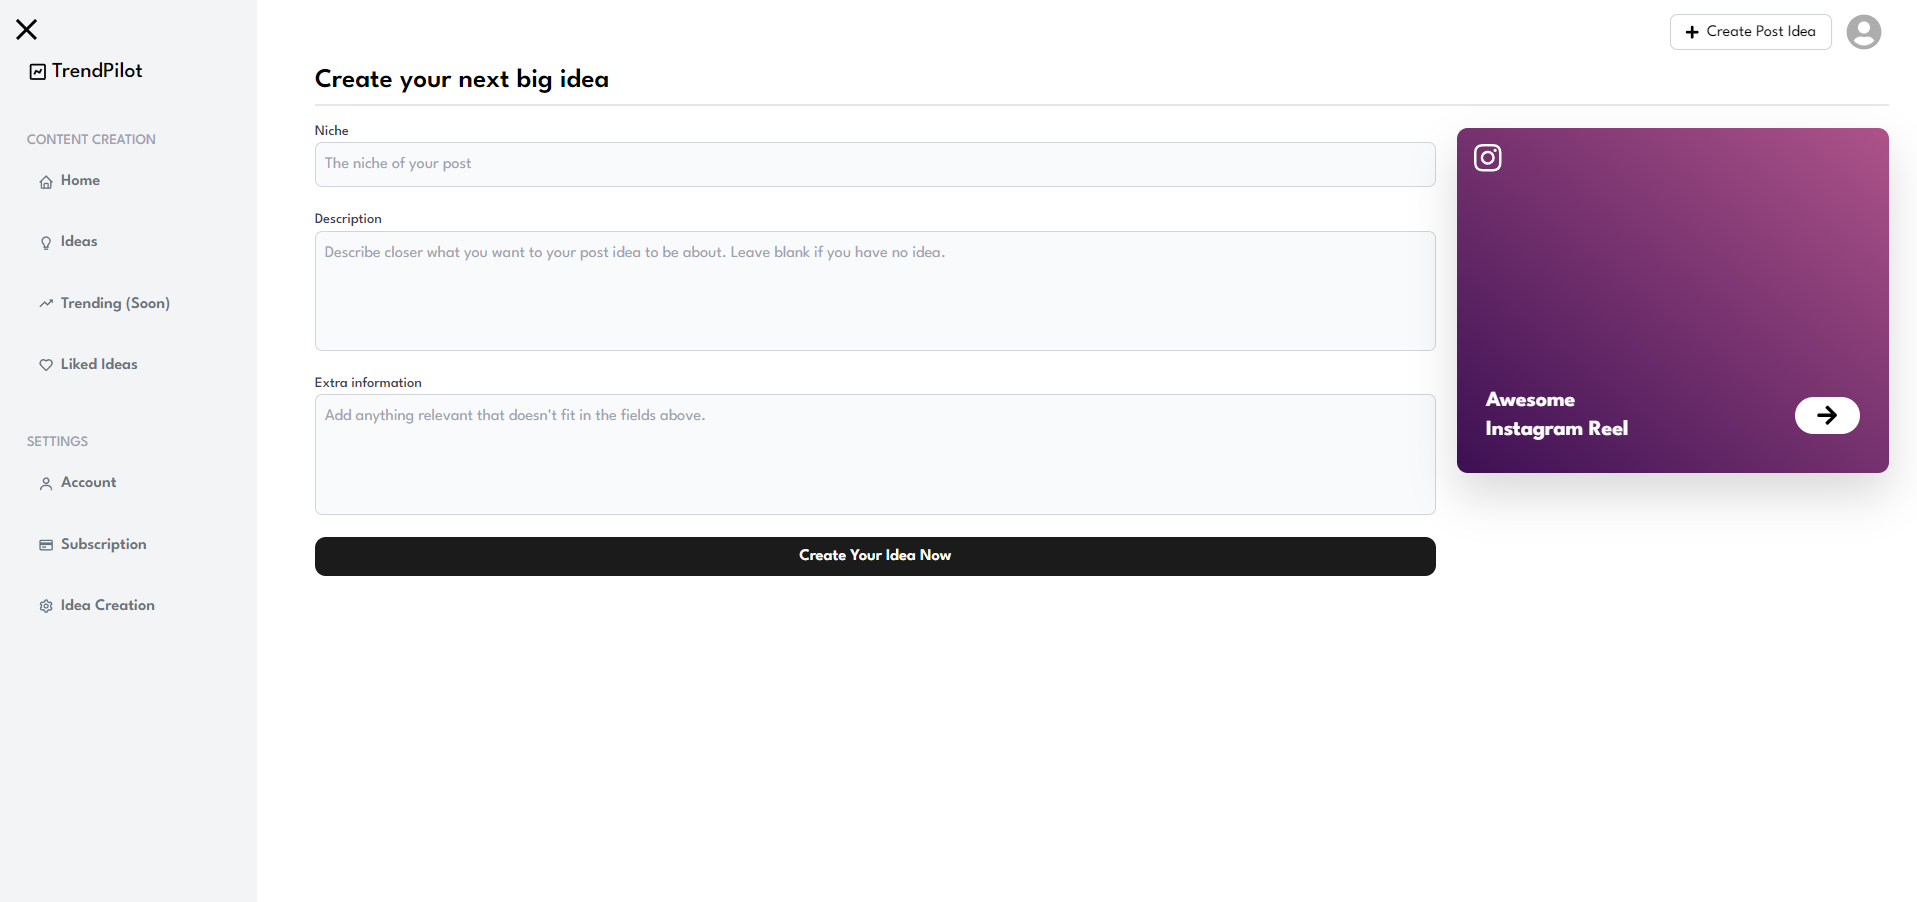
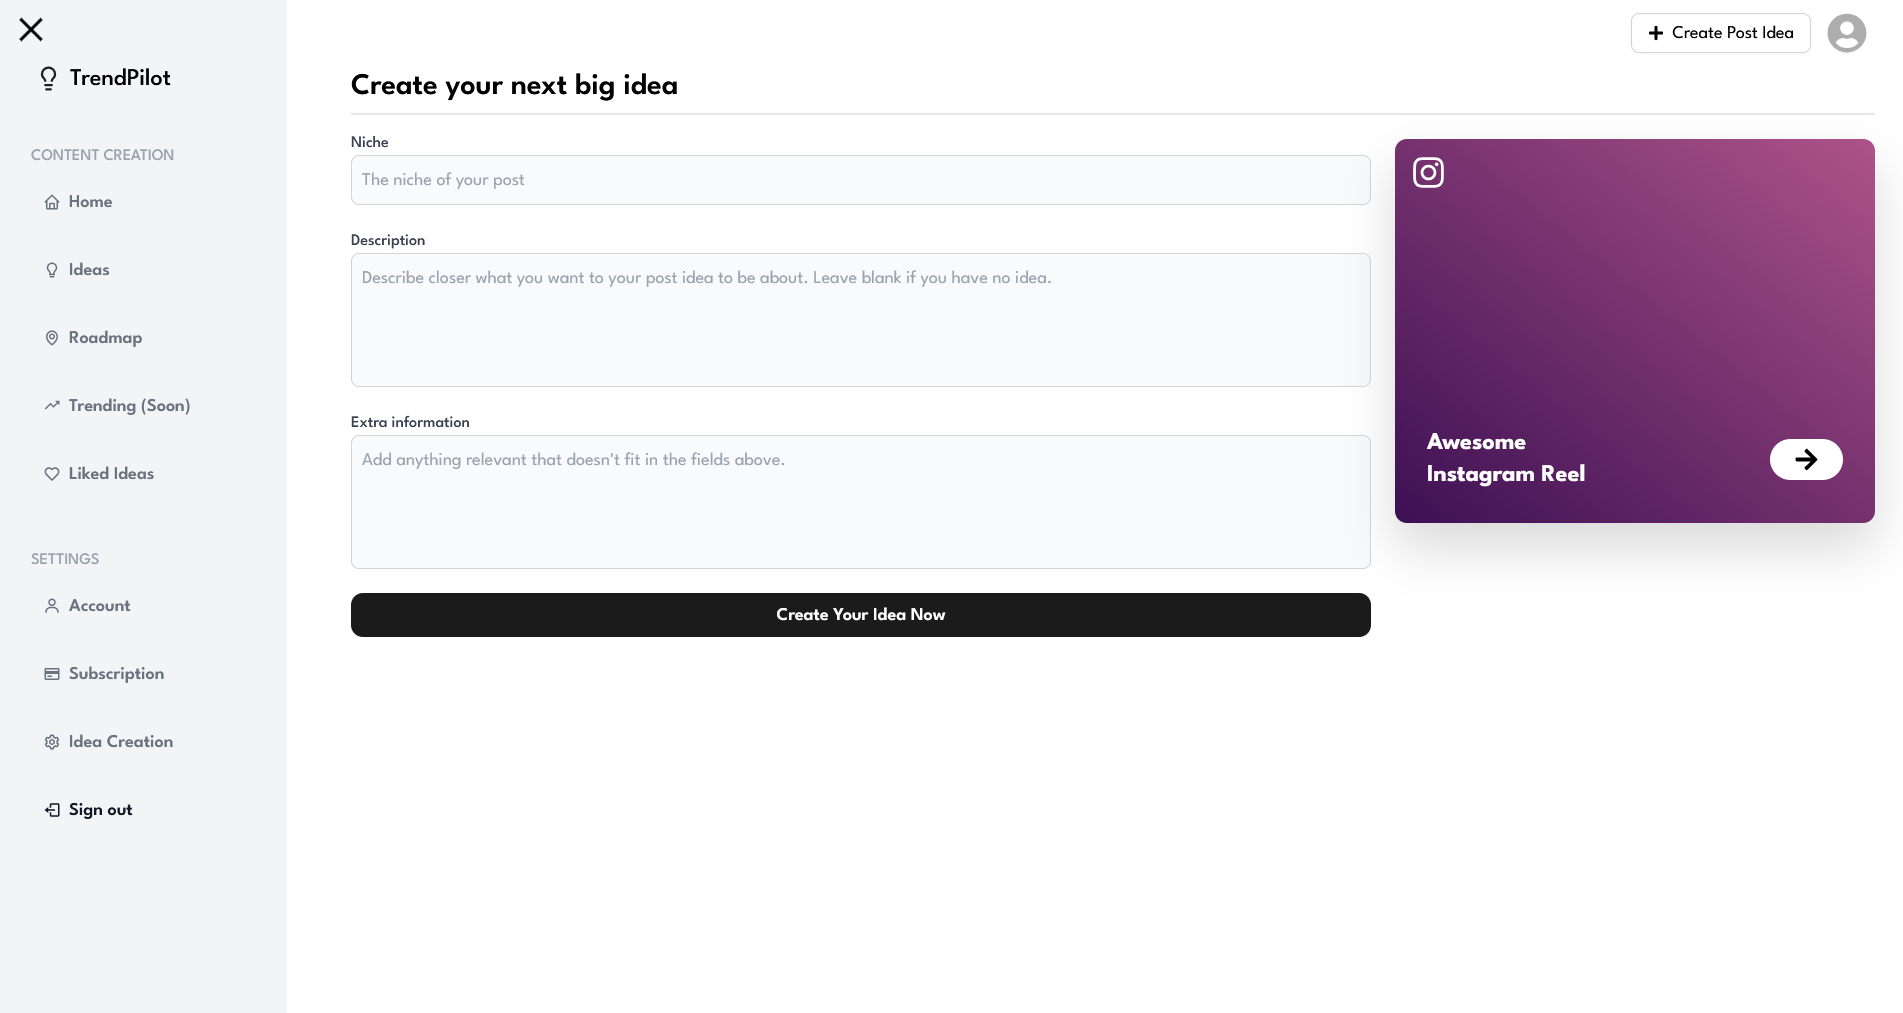
feat(frontend): change images and adjust layout

diff --git a/frontend/src/components/Features.tsx b/frontend/src/components/Features.tsx
@@ -14,10 +14,12 @@ export default function Features() {
       <div className="flex flex-col items-center  gap-4 mt-8 overflow-hidden px-4">
         <FadeInWrapper>
           <FeatureCard
-            headline="Unblock bottlenecks <br /> with scheduling queues."
-            text="Remove delays and decrease your time-to-offer with fast schedule
-                queuing — making life easier for your recruiters and
-                coordinators."
+            headline={
+              <p>
+                Viral and awesome ideas <br /> just a click away.
+              </p>
+            }
+            text="Generate your next viral ideas just with a button click and the niche of your choice. Our platform will do the rest for you."
             imageSrc="/showcase1.png"
           />
         </FadeInWrapper>
@@ -32,11 +34,14 @@ export default function Features() {
         </FadeInWrapper>
         <FadeInWrapper>
           <FeatureCard
-            headline="Unblock bottlenecks <br /> with scheduling queues."
-            text="Remove delays and decrease your time-to-offer with fast schedule
-                queuing — making life easier for your recruiters and
-                coordinators."
-            imageSrc="/showcase1.png"
+            headline={
+              <p>
+                Never forget any idea ever
+                <br /> again.
+              </p>
+            }
+            text="Create a big colletion of trending and viral ideas. Manage all of them in on place and never forget any of them again."
+            imageSrc="/ideas.png"
           />
         </FadeInWrapper>
         <FadeInWrapper>
@@ -50,11 +55,13 @@ export default function Features() {
 
         <FadeInWrapper>
           <FeatureCard
-            headline="Unblock bottlenecks <br /> with scheduling queues."
-            text="Remove delays and decrease your time-to-offer with fast schedule
-                queuing — making life easier for your recruiters and
-                coordinators."
-            imageSrc="/showcase1.png"
+            headline={
+              <p>
+                Plan your content <br /> with our amazing roadmap.
+              </p>
+            }
+            text="Never loose track of your newly created and awesome ideas. Plan your schedules and next steps with the TrendPilot roadmap."
+            imageSrc="/roadmap.png"
           />
         </FadeInWrapper>
       </div>

diff --git a/frontend/src/components/FeatureCard.tsx b/frontend/src/components/FeatureCard.tsx
@@ -1,4 +1,4 @@
-import React from "react";
+import React, { ReactElement } from "react";
 import Image from "next/image";
 
 export default function FeatureCard({
@@ -6,25 +6,20 @@ export default function FeatureCard({
   text,
   imageSrc,
 }: {
-  headline: string;
+  headline: ReactElement;
   text: string;
   imageSrc: string;
 }) {
   return (
     <div className="flex flex-row-reverse flex-wrap md:flex-nowrap items-center justify-center gap-8 bg-gray-50 p-8 md:p-16 rounded-2xl shadow-inner">
       <div className="flex flex-col">
-        <h3 className="text-2xl md:text-3xl font-bold">
-          Unblock bottlenecks <br /> with scheduling queues.
-        </h3>
-        <p className="text-lg md:text-xl md:w-96 text-gray-600 ">
-          Remove delays and decrease your time-to-offer with fast schedule
-          queuing — making life easier for your recruiters and coordinators.
-        </p>
+        <h3 className="text-2xl md:text-3xl font-bold">{headline}</h3>
+        <p className="text-lg md:text-xl md:w-96 text-gray-600 ">{text}</p>
       </div>
       <Image
         priority
         className="rounded-2xl shadow-sm  w-2/3 min-w-60"
-        src={"/showcase1.png"}
+        src={imageSrc}
         alt="Trendpilot"
         width={600}
         height={600}

diff --git a/frontend/src/components/ContentImageInfo.tsx b/frontend/src/components/ContentImageInfo.tsx
@@ -28,24 +28,6 @@ export default function ContentImageInfo() {
           >
             Dashboard
           </button>
-          <button
-            className={`${
-              selectedImage === "/showcase3.png"
-                ? "bg-gradient-to-b from-gray-800 to-gray-900  text-white"
-                : "hover:bg-gray-100"
-            } rounded-full px-4 py-2  font-medium transition-colors`}
-          >
-            Ideas
-          </button>
-          <button
-            className={`${
-              selectedImage === "/showcase4.png"
-                ? "bg-gradient-to-b from-gray-800 to-gray-900  text-white"
-                : "hover:bg-gray-100"
-            } rounded-full px-4 py-2  font-medium transition-colors`}
-          >
-            Platforms
-          </button>
         </div>
 
         <div className="px-4">
